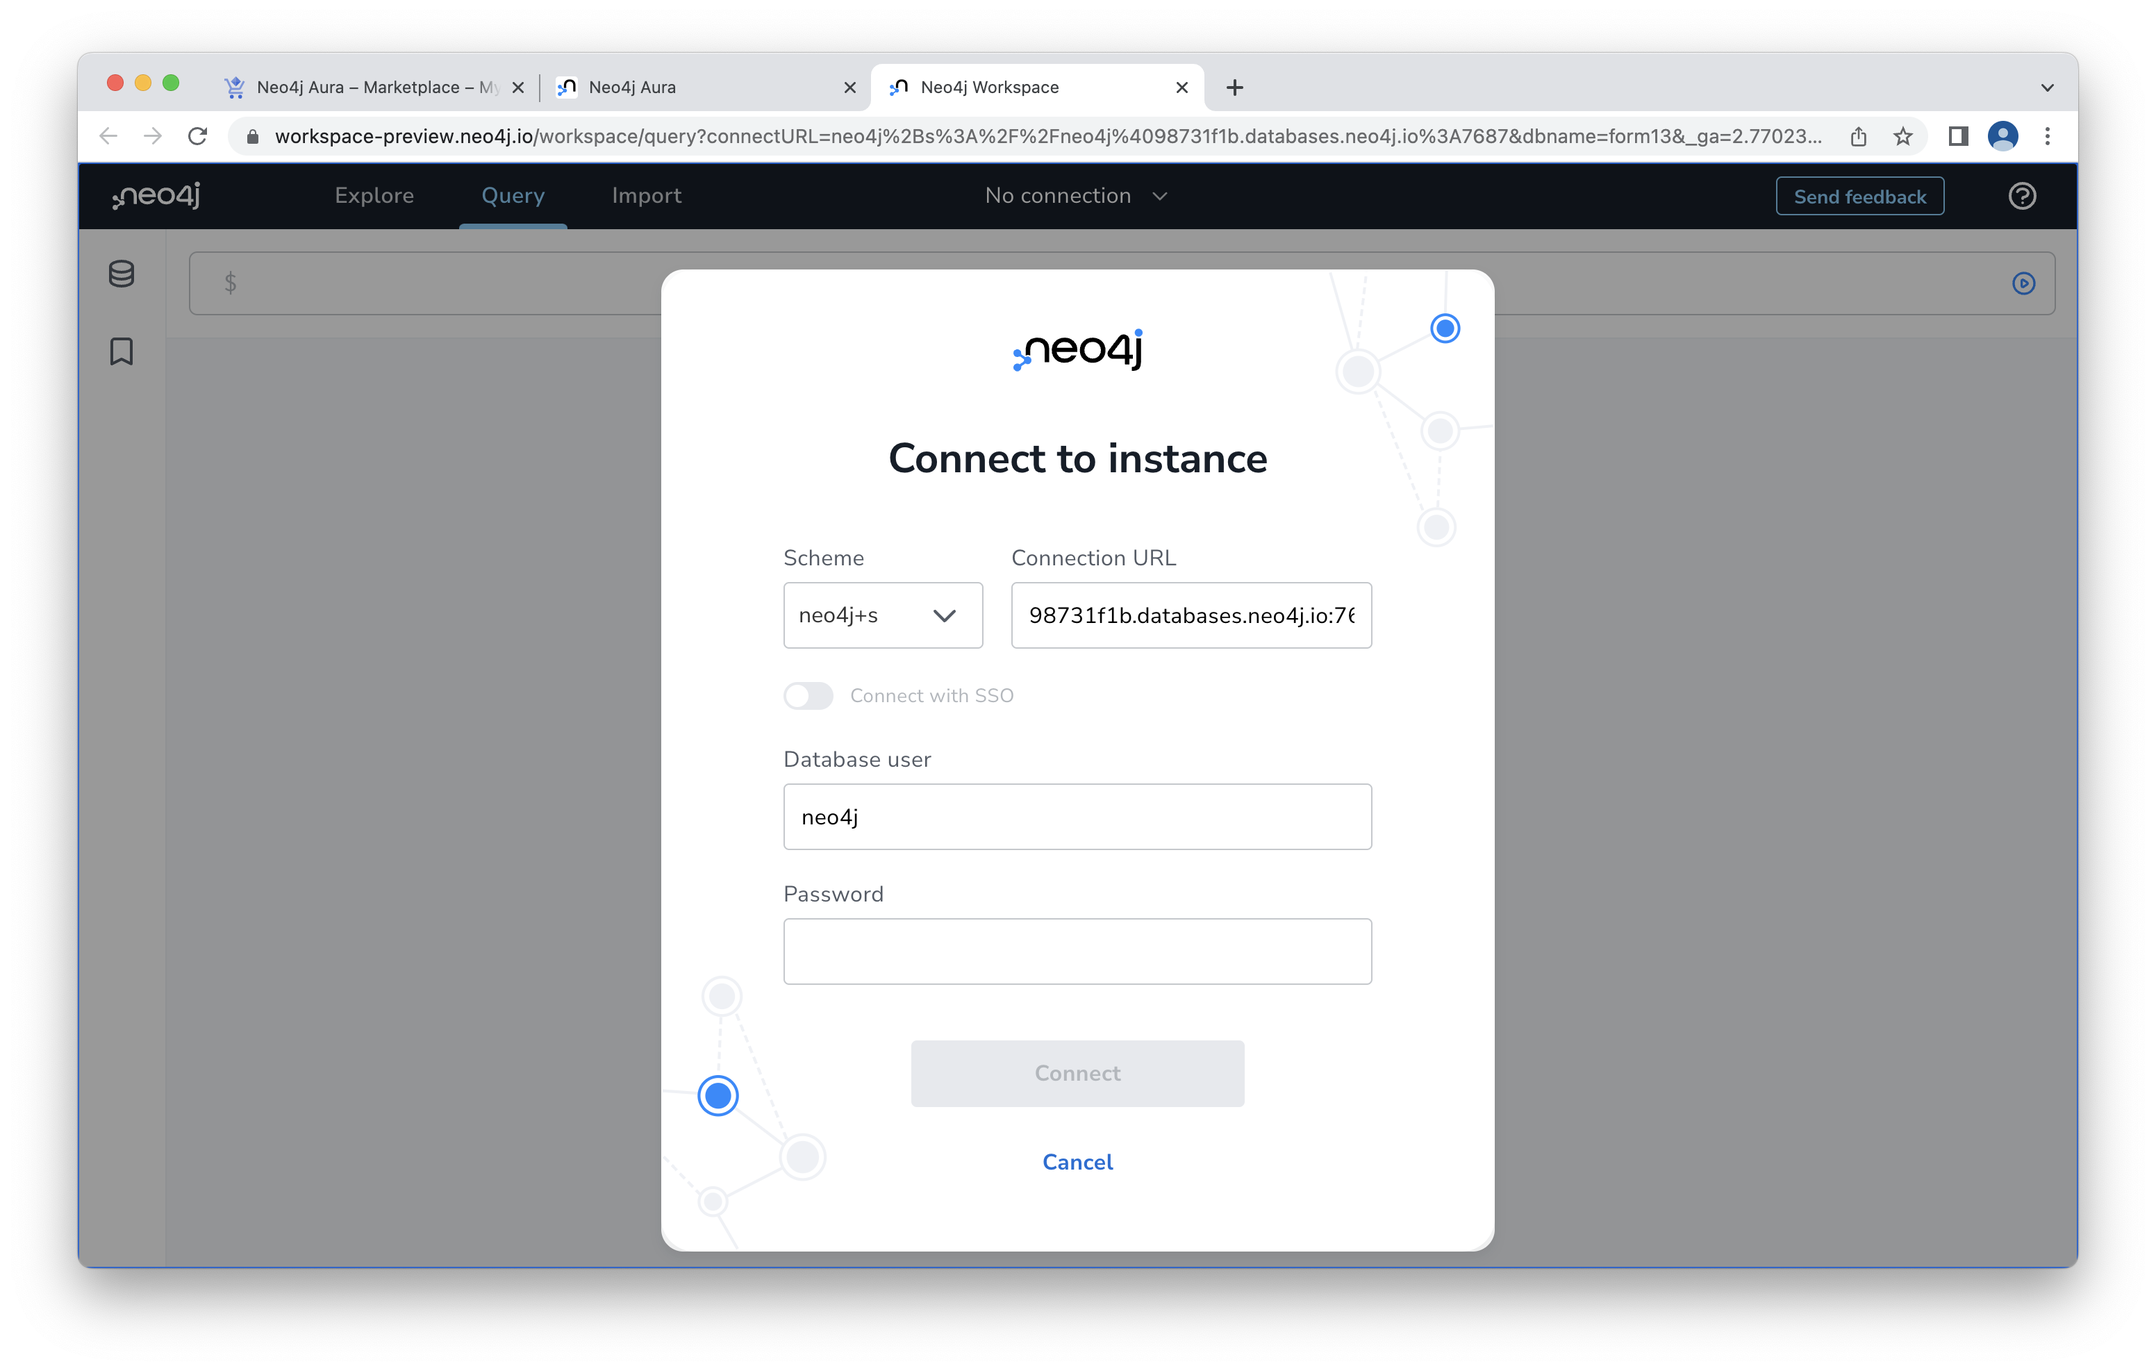
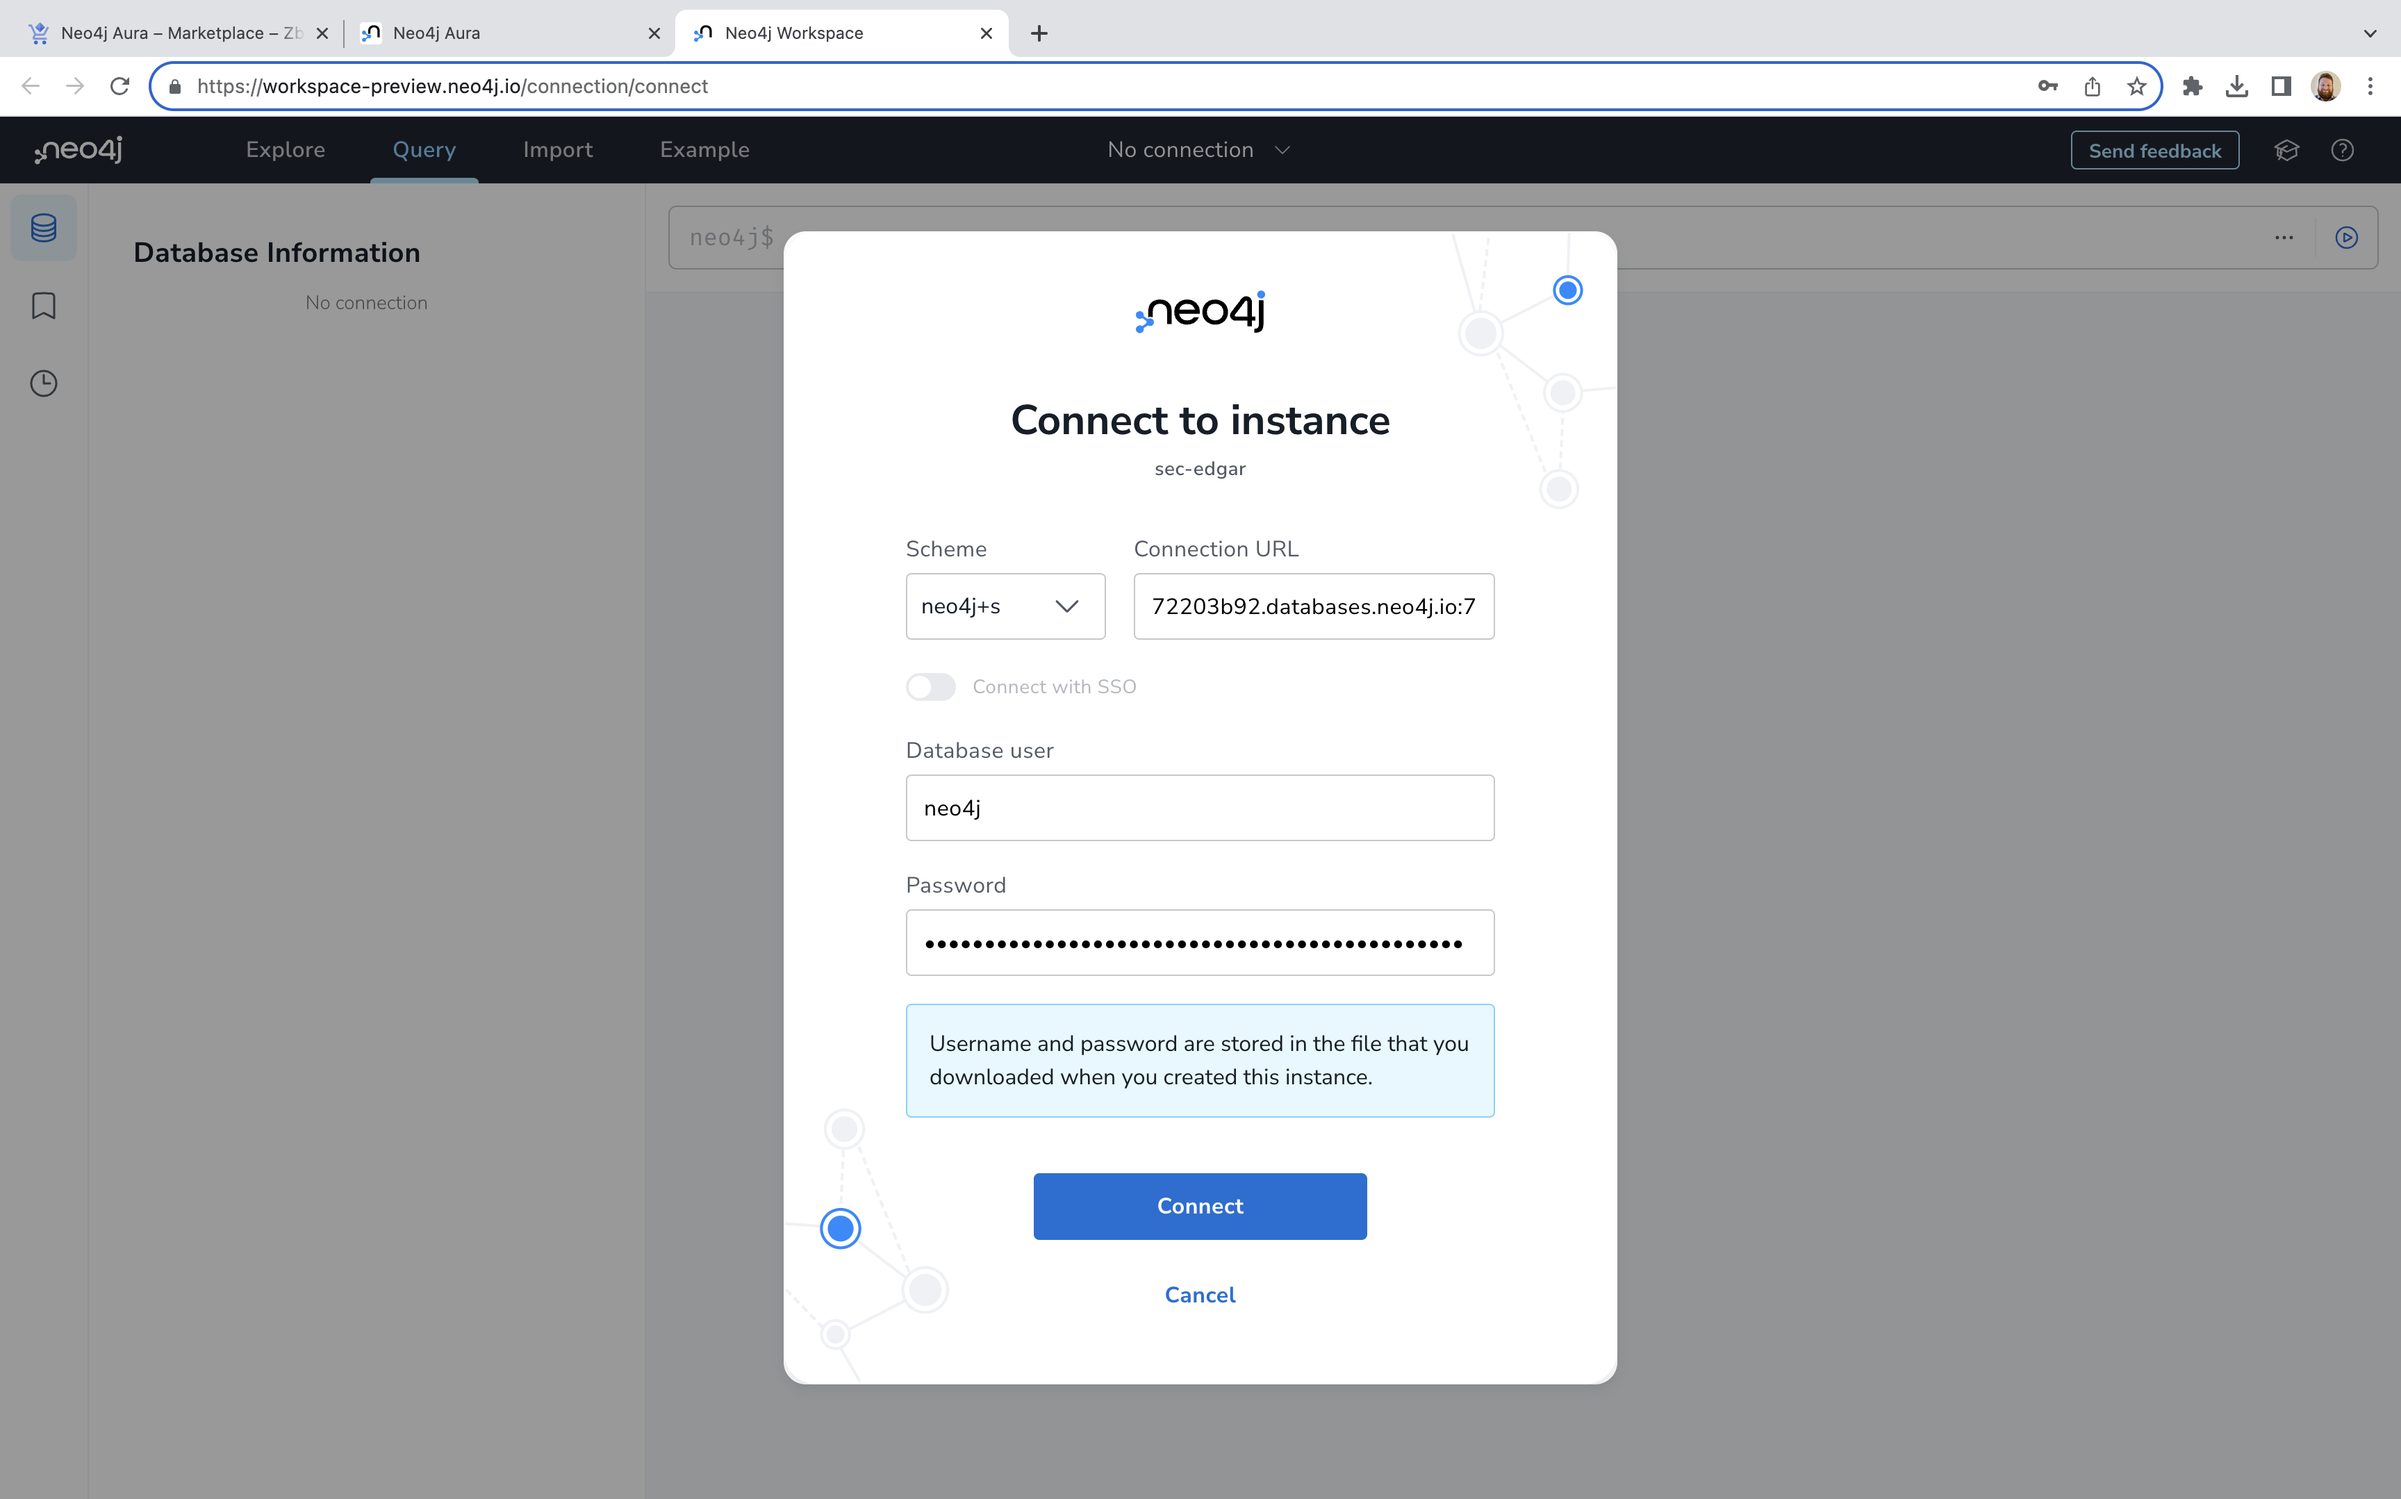
Adding Lab 2 Tweaks for Updated UI

diff --git a/Lab 2 - Connect to Neo4j/README.md b/Lab 2 - Connect to Neo4j/README.md
@@ -12,7 +12,7 @@ Once again, you'll need to agreee to the redirect.
 
 ![](images/02-redirect.png)
 
-You should now see the Neo4j Aura console.  Click "Open" on the "form13" instance we created.
+You should now see the Neo4j Aura console.  Click "Open" on the "sec-edgar" instance we created.
 
 ![](images/03-aura.png)
 
@@ -22,7 +22,7 @@ Review and agree to the Neo4j terms.
 
 Enter your password from the previous lab to login.
 
-![](images/05-loging.png)
+![](images/05-login.png)
 
 We're now in Neo4j Workspace.  This environment offers three tools:
 
@@ -32,26 +32,24 @@ We're now in Neo4j Workspace.  This environment offers three tools:
 
 Let's start with Neo4j Browser.  To open it, click the link that says "Query." 
 
-![](images/06-workspace.png)
+![](images/07-query.png)
 
 This is the interface from which you can write Cypher statements.  Cypher is Neo4j's graph query language.  It can be thought of as an analog to SQL, designed specifically to query graphs.  We'll try writing Cypher in later labs.
 
 We can view the contents of our database by clicking the database icon in the upper left.
 
-![](images/07-query.png)
+![](images/08-database.png)
 
 There's nothing in our database yet.  We can see the nodes, relationships and property keys are all blank.
 
-![](images/08-database.png)
-
-Before we move on, let's check what version of Neo4j Graph Data Science (GDS) is set up.  We can do that by entering the following command into the Neo4j Browser:
+Before we move on, let's check what version of Neo4j Graph Data Science is set up.  We can do that by entering the following command into the Neo4j Browser:
 
     RETURN gds.version() as version
 
-Then hit the little blue triangle play button to run it.  You should see a GDS version number.
+Then hit the little blue triangle play button to run it.  You should see a Graph Data Science version number.
 
 ![](images/09-gds.png)
 
-Since we got a GDS vesion back, we know that we're on AuraDS, not AuraDB.  This means that we have the libraries we'll need to create graph embeddings later in these labs.
+Since we got a Graph Data Science vesion back, we know that we're on AuraDS, not AuraDB.  This means that we have the libraries we'll need to create graph embeddings later in these labs.
 
 This gave us a very brief introduction to Neo4j Workspace.  We'll look at the Query and Explore functionality in more detail in the coming labs.
